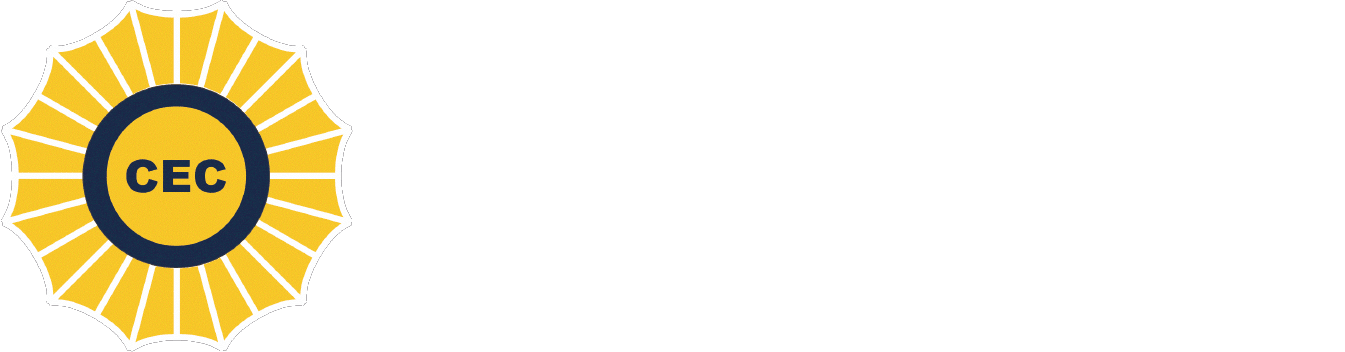
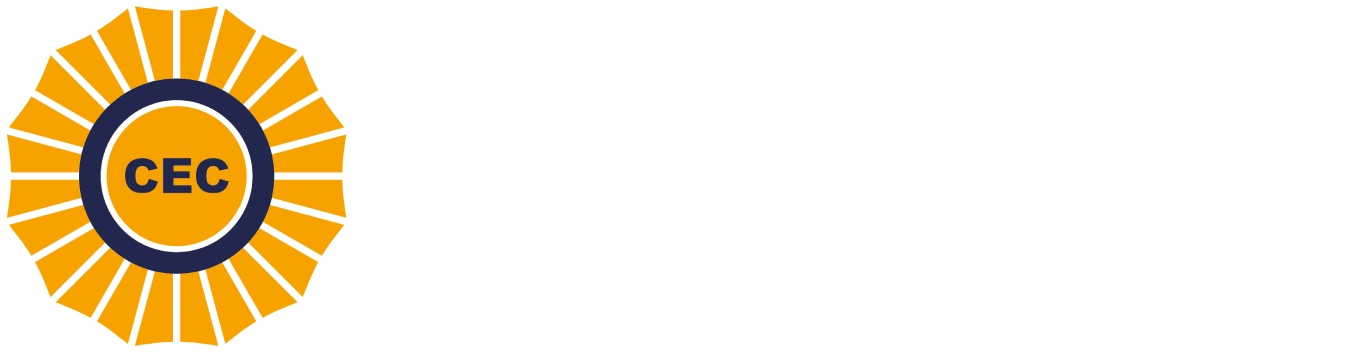
actualiza el color amarillo utilizado y el escudo por una version nueva

Changed region(s): [[0.0, 0.0, 0.281, 1.0]]

diff --git a/src/pages/login/index.tsx b/src/pages/login/index.tsx
@@ -21,7 +21,7 @@ import { Input } from "@/components/ui/input";
 import { Alert, AlertDescription, AlertTitle } from "@/components/ui/alert";
 
 import { ArrowRight, AlertCircle } from "lucide-react";
-import EscudoCEC from "@/assets/images/cec-escudo.png";
+import EscudoCEC from "@/assets/images/cec.svg";
 
 const formSchema = z.object({
   dni: z.coerce
@@ -140,9 +140,14 @@ function Login() {
                 </Alert>
                 <span className="inline-block text-xs leading-normal text-balance">
                   Si tiene algún inconveniente para iniciar sesión, comuníquese
-                  con Secretaria al mail{' '}
-                  <a href="mailto:secretariacecliceomilitargsm@yahoo.com.ar?subject=Error al iniciar sesión | App Socios" className="underline">
-                    secretariacecliceomilitargsm<br />@yahoo.com.ar
+                  con Secretaria al mail{" "}
+                  <a
+                    href="mailto:secretariacecliceomilitargsm@yahoo.com.ar?subject=Error al iniciar sesión | App Socios"
+                    className="underline"
+                  >
+                    secretariacecliceomilitargsm
+                    <br />
+                    @yahoo.com.ar
                   </a>
                 </span>
               </>

diff --git a/src/pages/dashboard/index.tsx b/src/pages/dashboard/index.tsx
@@ -33,7 +33,7 @@ function Dashboard() {
         if (isAxiosError(error)) {
           setErrorMsg(
             error?.response?.data?.errorMessage ??
-            "Se produjo un error inesperado, intente iniciar sesión nuevamente."
+              "Se produjo un error inesperado, intente iniciar sesión nuevamente."
           );
         } else {
           setErrorMsg(
@@ -62,7 +62,7 @@ function Dashboard() {
               className="h-20 grid grid-cols-[60px_1fr_1fr] grid-rows-2 gap-2 p-2 border border-cec_primaryDark rounded-md shadow-sm hover:bg-slate-200"
             >
               <figure className="row-span-2 inline-flex items-center justify-center rounded-full bg-cec_primaryDarker">
-                <User className="w-10 h-10 stroke-cec_secondary" />
+                <User className="w-10 h-10 stroke-cec_secondaryDark" />
               </figure>
               <span className="font-body font-medium text-lg text-black pt-1 col-span-2">
                 {member.socioName.trim()}

diff --git a/tailwind.config.js b/tailwind.config.js
@@ -1,5 +1,5 @@
 /** @type {import('tailwindcss').Config} */
-import defaultTheme from 'tailwindcss/defaultTheme'
+import defaultTheme from "tailwindcss/defaultTheme";
 
 export default {
   darkMode: ["class"],
@@ -60,7 +60,7 @@ export default {
         cec_primaryDark: "#12304C",
         cec_primaryDarker: "#0F1F30",
         cec_secondary: "#FFE86F",
-        cec_secondaryDark: "#FDC759",
+        cec_secondaryDark: "#f6a200",
       },
       borderRadius: {
         lg: "var(--radius)",

diff --git a/src/pages/memberDetails/index.tsx b/src/pages/memberDetails/index.tsx
@@ -4,7 +4,7 @@ import useAuthStore from "@/store/auth";
 
 import { ArrowLeft } from "lucide-react";
 
-import EscudoCEC from "@/assets/images/cec-escudo.png";
+import EscudoCEC from "@/assets/images/cec.svg";
 
 import { Member } from "@/types";
 import QrButton from "@/components/custom/qr-button";
